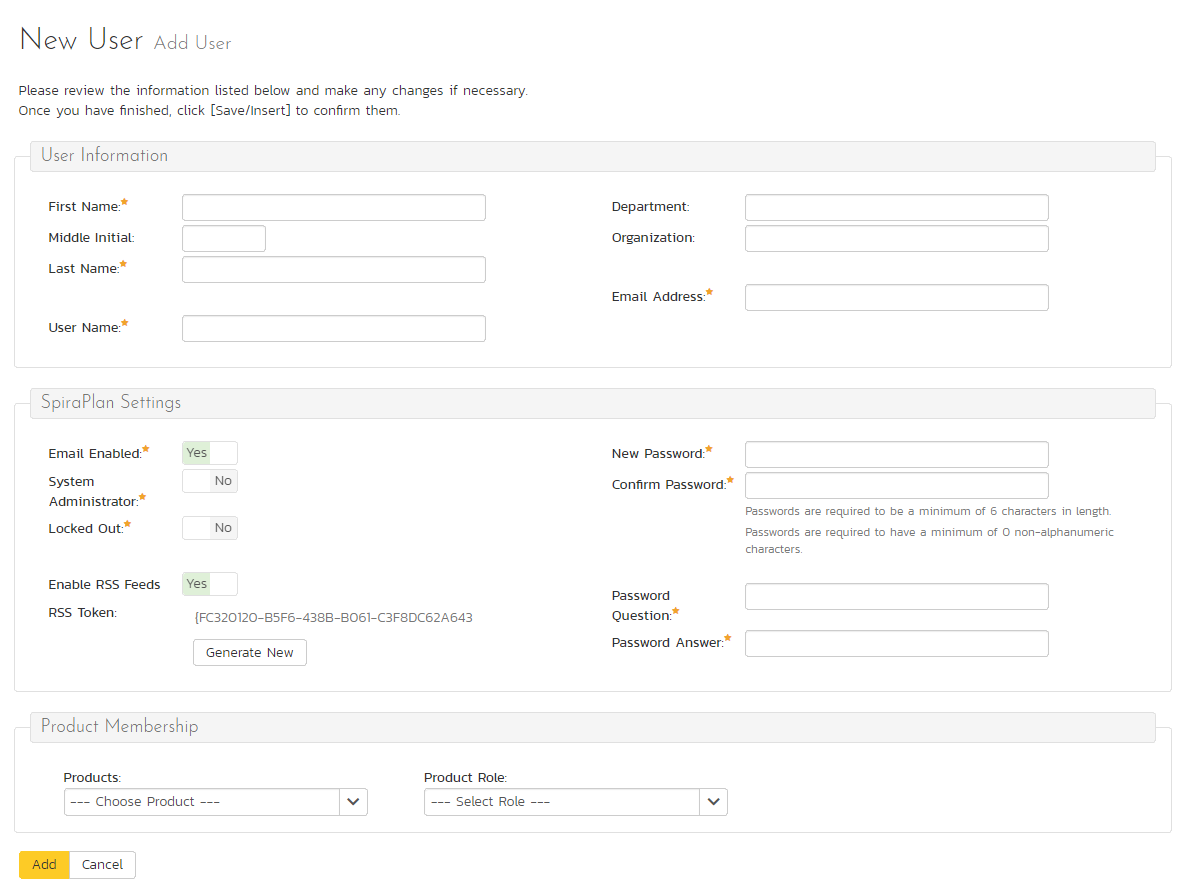
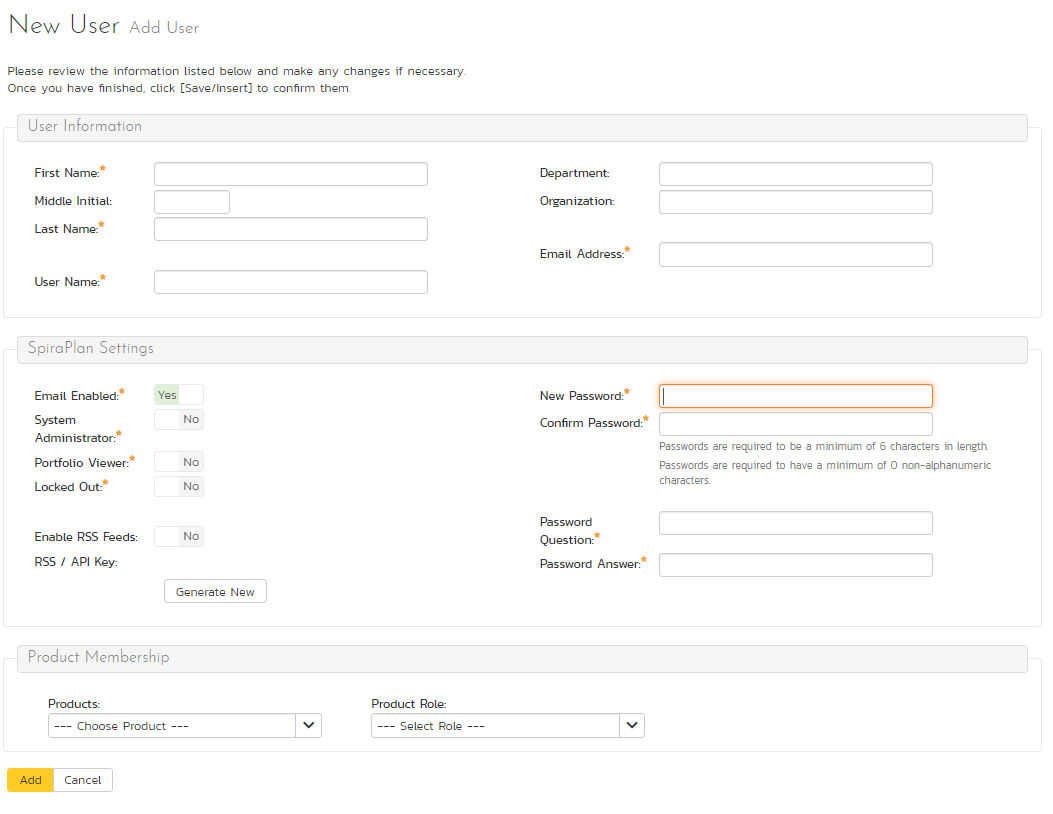
[TK:1852] admin user pages and portfolios

diff --git a/docs/Spira-Administration-Guide/System-Users.md b/docs/Spira-Administration-Guide/System-Users.md
@@ -18,23 +18,33 @@ This screen displays the list of users in the system (by default it only shows a
 - Which, if any, external login provider they are using (LDAP, or a login provider like Google or Okta)
 - active status
 
-You can filter the list of using the filter row at the top of the list. When you click the "Filter" button, the list of users will be filtered by the criteria you entered. You can clear the filter selection by clicking the "Clear Filters" button. To sort the list of users, click on the appropriate arrow icon located in the header row of each field (one each for ascending / descending). In addition, the list of users is paginated into groups of fifteen (15). You can step through the different pages by clicking the page numbers at the bottom of the user list.
+You can filter the list using the filter row above. When you click the "Filter" button, the list of users will be filtered by the criteria you entered. You can clear the filter selection by clicking the "Clear Filters" button. To sort the list of users, click on the appropriate arrow icon located in the header row of each field (one each for ascending / descending). In addition, the list of users is paginated into groups of fifteen (15). You can step through the different pages by clicking the page numbers at the bottom of the user list.
 
+!!! info "System administrators and product roles"
+    Note: if a user is a System Administrator, it will force that user to always have the 'Product Owner' role on all their assigned products, regardless of the chosen role. If you disable this option, they will then revert back to their true role.*
+
+### Add a new user
 To add a new user to the system, click the "Add" button at the bottom of the user list, and a new screen will be displayed that allows you to enter the new user information:
 
 ![](img/System_Users_45.png)
 
-On this screen, you can enter information about the user, such as their name, email address, and department. You will need to create their password, password reset question and answer. If you want the user to be able to subscribe to items in the system as RSS feeds, you should also make sure that the "Enable RSS Feeds" checkbox is selected and a GUID token is displayed in the text-box underneath.
+On this screen, you can:
+
+- enter information about the user, such as their name, email address, and department
+- make the user a portfolio viewer (SpiraPlan only)
+- make the user a system administrator
+- create their password, password reset question and answer. 
+- if you want the user to be able to subscribe to items in the system as RSS feeds, you can check the "Enable RSS Feeds" checkbox (this will display a GUID token in the text-box)
+
 
 When creating a new user, you can also set their role for products. A user can be assigned a role to multiple products at once, by checking the required checkboxes in the dropdown list of products. The same role will be applied across all products.
 
-*Note: If you make a user a System Administrator, it will force that user to always have the 'Product Owner' role on all their assigned products, regardless of the chosen role. If you disable this option, they will then revert back to their true role.*
-
+### Edit an existing user
 In a similar way, to edit the details of an existing user, click the "Edit" hyperlink in the user list box, and you will be taken to the following screen that allows you modify the user details:
 
 ![](img/System_Users_46.png)
 
-On this screen you can edit the first name, middle initial, last name, username, email address, system administration status and active status. You can also change the user's password (if the user is managed by SpiraPlan).
+On this screen you can edit the first name, middle initial, last name, username, email address, portfolio viewer status (SpiraPlan only), system administration status, and active status. You can also change the user's password (if the user is managed by SpiraPlan).
 
 If your Spira accounts are managed by an external LDAP directory server, you can edit a user's LDAP information on this page. In LDAP-Managed mode you enter the fully Distinguished Name (DN) for that user in your corporate LDAP server and provide no password. SpiraPlan® will then query your corporate LDAP server for the password information, reducing the number of passwords that a user needs to remember. Please see the sections on [Importing LDAP Users](#importing-ldap-users) and [LDAP Configuration](../System/#ldap-configuration) for more details.
 
@@ -138,7 +148,8 @@ For each pending user request you can choose to either Approve or Deny the reque
 **Delete** -- clicking this option will delete the pending user request from the system.
 
 
-## View / Edit Roles
+## View / Edit Product Roles
+Read an [overview](../System-Administration/#how-user-permissions-are-set) of how permissions work across the application and all its workspaces.
 
 There are six (6) default product roles that a user may be assigned to a product with:
 
@@ -149,7 +160,8 @@ There are six (6) default product roles that a user may be assigned to a product
 - **Observer** -- can see all screens, but cannot perform any write operations (insert / update / delete)
 - **Incident User** -- can only view and edit incidents. This user cannot even see the product's requirements, tasks, test cases or releases.
 
-Note: The System Administrator (with a user id of 1) is automatically added to every product as a Product Owner, and can never be removed as Product Owner, made inactive or made a different role on the product.
+!!! info "The Special case of user administrator"
+    The System Administrator (with a user id of 1) is automatically added to every product as a Product Owner, and can never be removed as Product Owner, made inactive or made a different role on the product.
 
 You can make changes to the permissions associated with each of these default roles, and also create as many additional roles as you like. To customize the roles in your installation of SpiraPlan®, click on the "View / Edit Roles" link in the Administration menu:
 

diff --git a/docs/Spira-Administration-Guide/System-Administration.md b/docs/Spira-Administration-Guide/System-Administration.md
@@ -1,7 +1,8 @@
 # System Administration
-
+## Introduction
 Now that you have successfully installed SpiraPlan®, this section of the guide outlines how to perform the typical administrative tasks necessary for setting up products and programs in the system, managing users and verifying the license information.
 
+## Types of administrator
 To perform these tasks, you need to login to the system with a user that has some level of "administration" permissions within the system. There are four different sections to administration, and each has its own permission. These sections and their permissions are:
 
 1.  **System Administration**: tasks like approving new users, creating new products, changing security settings, or viewing the logs all happen at the system-wide level of administration. There is a special "System Administrator" flag that can be assigned to any user (by an existing system admin only). Any user that has this flag can perform any system administrator task. *Please note that a special "administrator" user is created by the installer. You should initially login to SpiraPlan® with the username `administrator`, and the password `PleaseChange`. Change this password as soon as possible to something that is secure yet memorable by clicking on the "User Profile" link.*
@@ -13,6 +14,7 @@ To perform these tasks, you need to login to the system with a user that has som
 4.  **Template Administration:** end users of the application will work with products and sometimes programs. However, behind the scenes of every product is a template. This template controls the bulk of how that product is configured and will work for the end users. Each product is controlled by one template, though each template can control many products at once. Making a change to a template in template administration will immediately affect all products controlled by that template. Such changes to a template include changing the name of incident types, changing the colors used to indicate requirement priorities, or changing custom properties.
 *Please note that template admin permissions are managed by the same roles that manage product admin permissions and that apply to members of each product. You can read more about how template admin permissions work [here](../System-Users/#view-edit-roles).*
 
+## Administration Menu
 Once you have logged in as an administrator, you can click the "Administration" link which can be found on the right-hand side of the global navigation at the top of any page:
 
 ![](img/System_Administration_28.png)
@@ -66,3 +68,19 @@ When you first install the system, we suggest **three main tasks** to perform as
 These tasks typically need to be performed before any other users can use the system, since there will be no logins or products available other than the sample ones provided during the installation.
 
 The rest of this guide explores each area of administration in order, grouped by administration section.
+
+
+## How user permissions are set
+As described above there are 4 different types of administrator. There are also different permission models for accessing the application itself (ie not administration). How do you set each of these permissions so that a user can only see / use what they are supposed to see / use?
+
+- **We start with a user**: without a user, your colleague can not even log in to the application
+- **Then add a user to a product**: a brand new user cannot do anything or see anything in the application. The most common way of granting a user access to the system is to add them as a member to specific products
+- **Give the user the correct role for a product**: when you add a user to a product, you have to set the specific product role they should have. This grants them specific permissions to view certain data, edit other data, maybe the ability to delete data too. Each user has to be actively given a particular role for each product. In other words you cannot make a user a "Tester" for all products at once.
+- **Any role can grant the user product ownership access**. Product roles have two special flags. One of which is product ownership. Any person with a role that has product ownership set to Yes can carry out all administrative tasks on that product
+- **Any role that grants product ownership access can also grant template admin access**. The second special flag on a product role is that of Template Admin. If a role grants product ownership it can optionally also grant template admin access.
+- **Access to view / edit a program**: to view a program dashboard or its pages, a user has to have been granted access with a particular role to that specific program. Program roles are either Executive or Owner. The owner can carry out any administration tasks on the program.
+- **Users can be granted portfolio viewer access (SpiraPlan only)**: each user profile has two special flags on it. These are system wide permissions, that are separate from product roles. First, is Portfolio Viewer access, which lets a user see all portfolio pages and enterprise pages in the application. In other words, you do not let a user see this portfolio or that portfolio, but all portfolios en masse. Only a system administrator can set this on a user.
+- **Users can be granted system administrator status**: this is the second special flag on a user profile and makes the user a system administrator. Only a system administrator can set this on a user.
+
+!!! info "System administrators and product roles"
+    Note: if a user is a System Administrator, it will force that user to always have the 'Product Owner' role on all their assigned products, regardless of the chosen role. If you disable this option, they will then revert back to their true role.*
